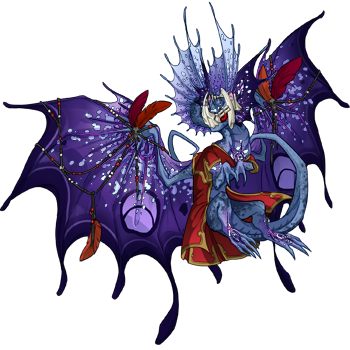
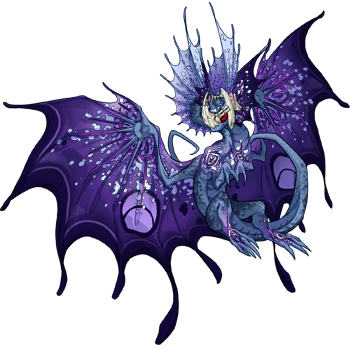
dragons: tweaks+Lapilli
images are inconsistent now but oh well

diff --git a/_layouts/dragons.html b/_layouts/dragons.html
@@ -31,7 +31,7 @@
 			<aside>
 				<h2>stats</h2>
 				<div class="box">
-					<div id="drg-av"{%if page.vista%} class="vista" style="background-image:url({%include url.html%}/assets/img/items/{{page.vista}}.png);"{%endif%}><img src="{%include url.html%}/assets/img/dragons/{{drg.id}}-av.png" alt=""></div><!--maybe put those lil emoji links here? the forum search, color search, and scry-->
+					<div id="drg-av"{%if page.vista%} class="vista" style="background-image:url({%include url.html%}/assets/img/items/{{page.vista}}.png);"{%endif%}><img src="{%include url.html%}/assets/img/dragons/{{drg.id}}-av.png" alt=""></div><!--maybe put those lil emoji links here? the forum search, color search, and scry | alternatively, reorder: "shown with" all under the vista on the left (use icons), then basics size genes dates--in a row nofam, or a 2x2 flex withfam. maybe the other links can be onsite-only...?-->
 					<a href="#content" class="x skip">skip to content</a>
 					<div id="flex">
 						<section>
@@ -69,14 +69,14 @@
 							</ul>
 						</section><section>
 							<h3>shown with</h3>
-							{%assign acc=site.data.items|where:"id",page.accent%}
+							{%assign acc=site.data.items|where:"id",page.skin%}
 							{%assign scn=site.data.items|where:"id",page.scene%}
 							{%assign vst=site.data.items|where:"id",page.vista%}
 							<ul>
 								{%if page.apparel%}<li><b>apparel</b>:<ul id="app">
 									{%for app in page.apparel%}<li>{%assign app-info=site.data.items|where:"nm",app%}{%for id in app-info%}<a href="https://www1.flightrising.com/game-database/item/{{id.id}}"><img src="{%include url.html%}/assets/img/items/{{id.id}}.png" alt="{{app}}"></a></li>{%endfor%}{%endfor%}
 								</ul></li>{%endif%}
-								{%if page.accent%}<li><b>accent</b>: {%for item in scn%}<a href="https://www1.flightrising.com/game-database/item/{{item.id}}">{{item.nm}}</a>{%endfor%}</li>{%endif%}
+								{%if page.skin%}<li><b>skin</b>: {%for item in acc%}<a href="https://www1.flightrising.com/game-database/item/{{item.id}}">{{item.nm}}</a>{%endfor%}</li>{%endif%}
 								{%if page.scene%}<li><b>scene</b>: {%for item in scn%}<a href="https://www1.flightrising.com/game-database/item/{{item.id}}">{{item.nm}}</a>{%endfor%}</li>{%endif%}
 								{%if page.vista%}<li><b>vista</b>: {%for item in vst%}<a href="https://www1.flightrising.com/game-database/item/{{item.id}}">{{item.nm}}</a>{%endfor%}</li>{%endif%}
 							</ul>
@@ -89,7 +89,7 @@
 				<h2>familiar</h2>
 				<img src="{%include url.html%}/assets/img/items/{{fam.id}}.png" alt="{{fam.nm}}">
 				<b>{%if page.familiar.nm%}{{page.familiar.nm}}</b> (<a href="https://www1.flightrising.com/game-database/item/{{fam.id}}">{{fam.nm}}</a>){%else%}<i><a href="https://www1.flightrising.com/game-database/item/{{fam.id}}">{{fam.nm}}</a></i>{%endif%}</b>
-				{{page.familiar.why|markdownify}}
+				{{page.familiar.why|markdownify}}<p style="margin:1em 0;"><small>[uhh I made this section way too big, might finangle it into one row with the stats later]</small></p>
 			{%endfor%}</section>{%endif%}
 			
 			<main id="content">
@@ -132,17 +132,20 @@
 						{%endfor%}</ul>
 					{%endfor%}</div>
 				</details>
-				<details class="fbox">
+				<details class="fbox" id="lore">
 					<summary><h3>dragons by lore affiliation</h3></summary>
-					<div class="cat-content"><h4>Viral Evolution</h4>
-						<ul>{%for dr in site.data.dragons%}{%if dr.cat contains 'virevo'%}<li>{%if drg.nm==page.name%}<b>{%endif%}{{drg.nm}}{%if drg.nm==page.name%}</b>{%endif%}</li>{%endif%}{%endfor%}</ul>
-					<h4>The Inn</h4>
-						<ul>[TBA]</ul>
-					<h4>wanderers/other</h4>
-						<ul>[TBA]</ul>
-					<h4>no lore</h4>
-						<ul>[TBA]</ul>
-				</div></details>
+					<div class="cat-content">
+						<!--this is manual for now-->
+						<h4>Viral Evolution</h4>
+							<ul>Maelstrom | Lapilli</ul>
+						<h4>The Inn</h4>
+							<ul>[TBA]</ul>
+						<h4>[other lore]</h4>
+							<ul>[TBA]</ul>
+						<h4>no lore</h4>
+							<ul>[TBA]</ul>
+						</div>
+				</details>
 				<div class="fbox">
 					other categories: <ul id="other">
 						{%if drg.age%}<li>permabab</li>{%endif%}

diff --git a/assets/dragons.css b/assets/dragons.css
@@ -108,6 +108,7 @@ figcaption{font-size:.85em; text-align:center;}
 @media only screen and (min-width:25em){@supports (display:flex){
 	.cat-content{display:flex; flex-wrap:wrap; gap:.5em 0;}
 	#cat h4{width:8em; text-align:right;} .cat-content ul{width:calc(100% - 8em); text-align:left; padding:.5em; margin:0;} .cat-content ul:nth-of-type(even){background:#f3f3f3;}
+	#lore h4{width:10em;} #lore ul{width:calc(100% - 10em);}
 }}
 
 /*bigscreen*/

diff --git a/_dragons/000-maelstrom.md b/_dragons/000-maelstrom.md
@@ -8,8 +8,6 @@ familiar:
  id: 359
  why: |-
    One of the first familars I got! Was never a character in-lore, but it stuck.
-   
-   <small>[uhh I made this section way too big, might finangle it into one row with the stats later]</small>
 apparel: [Riot Hazebeacon,Carapace Arm,Fiendflesh Hindcallouses,Fiendflesh Tailspine,Cartographer]
 vista: 18342
 scene: 36376
@@ -21,14 +19,13 @@ art:
     by: Archaeoraptor
     link: https://www.deviantart.com/a-flyleaf/art/Maelstrom-791945417
 
-css: "#content h3:first-child{margin-top:0;} #fam p{margin-bottom:1em;}
+css: "#content h3:first-child{margin-top:0;}
 figure{display:inline-block; max-width:50%;}"
-# the familiar paragraph is only until I re-finangle that section
 ---
 ### lore notes
 - grew up in a roving pack of mirrors not unlike those described in [the official encyclopedia](https://www1.flightrising.com/wiki/wiki/article/mirror-dragons)
 - interpersonal conflict split the pack, and Maelstrom wandered off solo
-- met Lapilli<!--link TBA-->, who would become a partner for life
+- met [Lapilli](lapilli), who would become a partner for life
 - enter Altostratus, Azurite, and Solar; then the hatchlings, Chalcedony & Riptide---and with that, a clan was born
 - though both progens were technically leaders, Lapilli took on most duties in practice; Maelstrom, ever the loner, mostly didn't feel the need to organize and helped around where needed
 - the clan (later dubbed <i>Viral&nbsp;Evolution</i>) eventually dissolved due to a whole ’nother mess of interpersonal drama; following this, Maelstrom and Lapilli wandered the plaguelands on their own
@@ -37,4 +34,4 @@ figure{display:inline-block; max-width:50%;}"
 - forever wandering the Abiding&nbsp;Boneyard
 
 ### Archaeoraptor notes
-Maelstrom, my guy Maelstrom! I do not remember what possessed me to make him purble, but it probably had something to do with Shadow being my second-choice flight. It's been tricky to make his genes and apparel work, especially with the red eyes, but I like what I've landed on---even if, character-wise, the most fitting look would be no apparel and triple Basic. Aesthetics win this round...!
+Maelstrom, my guy Maelstrom! I do not remember what possessed me to make him purble, but it probably had something to do with Shadow being my second-choice flight. It's been tricky to make his genes and apparel work, especially with the red eyes, but I like what I've landed on---even if, character-wise, the most fitting look would be no apparel and triple Basic. Aesthetics win this round.

diff --git a/_dragons/001-lapilli.md b/_dragons/001-lapilli.md
@@ -1,0 +1,31 @@
+---
+layout: dragons
+slug: lapilli
+name: Lapilli
+broadcast: random progen
+
+familiar:
+ id: 412
+ why: |-
+   An early familiar grab; I forget if it was a Coli drop or Pinkerton. Either way, lil winged blue, thought it looked fitting enough.
+apparel: "Crown of Bones"
+skin: 33517
+vista: 18342
+scene: 36376
+
+# art: [existent but buried in files somewhere. possibly just the screm?]
+
+css: "#content h3:first-child{margin-top:0;}"
+---
+### lore notes
+- original [colony](https://www1.flightrising.com/wiki/wiki/article/fae-dragons) fell apart due to reasons I've since forgotten
+- met [Maelstrom](maelstrom), who would become a partner for life
+- enter Altostratus, Azurite, and Solar; then the hatchlings, Chalcedony & Riptide---and with that, a clan was born
+- though both progens were technically leaders, Maelstrom never set out to leave a clan; Lapilli took on most responsibilities, which she enjoyed despite occasional overwhelm
+- the clan (later dubbed <i>Viral&nbsp;Evolution</i>) eventually dissolved due to a whole ’nother mess of interpersonal drama; following this, Lapilli joined Maelstrom for wandering around the plaguelands
+	- bone crown was a parting gift from the kids; has not taken it off since
+	- took on the surname "Virevo" in honor of the clan
+- has occasionally taken interest in other territories, particularly the Tangled&nbsp;Wood; for now she's rarely been apart from Maelstrom long, but time will tell if their paths diverge more significantly....
+
+### Archaeoraptor notes
+On one hand, blue is my favorite color, and as eternal proof of that luck I'm not particularly tempted to scatter her. On the other, I am increasingly aware of the aesthetic mismatch. If I ever get [that progen restoration achievement](https://www1.flightrising.com/game-database/achievement/134), it'll probably be with her, and with a fresh makeover the second she pops out of the Wyrmwound. Or Tangled&nbsp;Wood. Or... however I justify that makeover, lore-wise.
